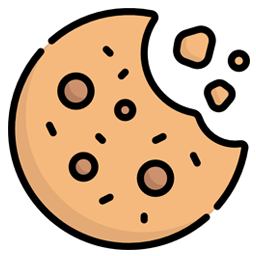
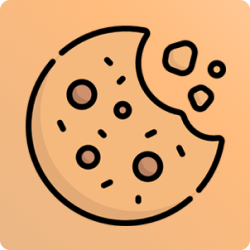
🦄 Updated: wordpress.org graphics.
- 🦄 Updated: wordpress.org graphics.

diff --git a/simple-gdpr-cookie-compliance.php b/simple-gdpr-cookie-compliance.php
@@ -9,7 +9,7 @@
  * Plugin Name:       Simple GDPR Cookie Compliance
  * Plugin URI:        https://themebeez.com/plugins/simple-gdpr-cookie-compliance
  * Description:       Simple GDPR Cookie Compliance is a simple notifier to inform users that your site uses of cookies and show your complies with EU GDPR cookie law and CCPA regulations.
- * Version:           1.1.5
+ * Version:           1.1.6
  * Author:            themebeez
  * Author URI:        https://themebeez.com/
  * License:           GPL-2.0+
@@ -28,7 +28,7 @@ if ( ! defined( 'WPINC' ) ) {
  * Start at version 1.0.0 and use SemVer - https://semver.org
  * Rename this for your plugin and update it as you release new versions.
  */
-define( 'SIMPLE_GDPR_COOKIE_COMPLIANCE_VERSION', '1.1.5' );
+define( 'SIMPLE_GDPR_COOKIE_COMPLIANCE_VERSION', '1.1.6' );
 define( 'SIMPLE_GDPR_COOKIE_COMPLIANCE_BASENAME', plugin_basename( __FILE__ ) );
 
 /**
